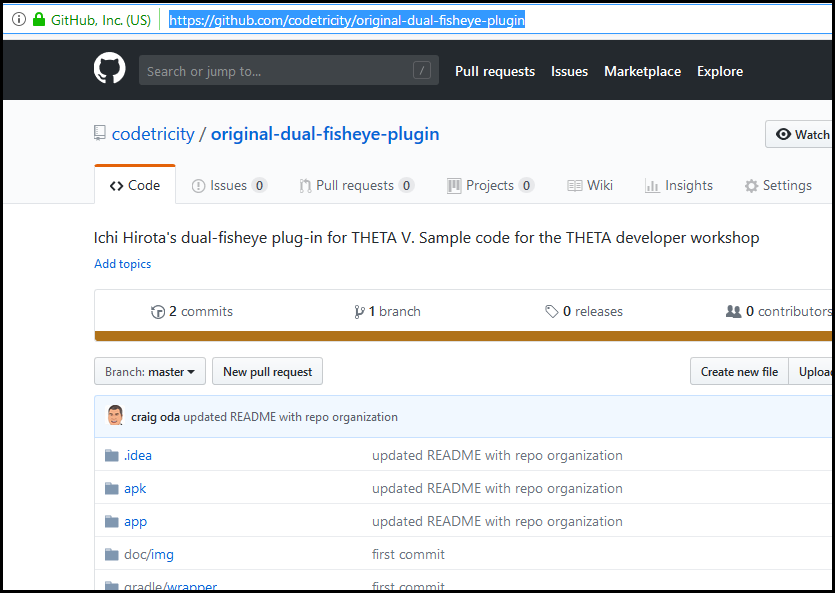
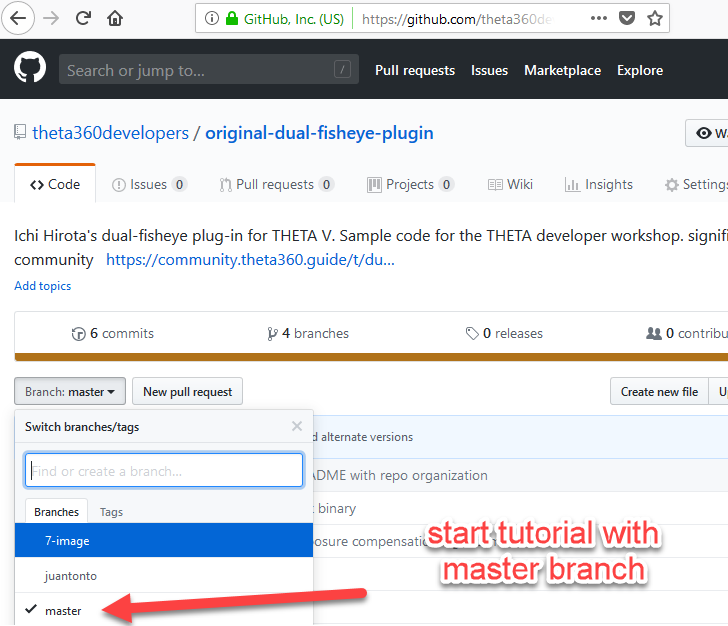
updated tutorial repository links

Changed region(s): [[0.0, 0.0, 1.0, 1.0], [0.6648, 0.2732, 0.8764, 0.3339]]

diff --git a/docs/fisheye.md b/docs/fisheye.md
@@ -42,7 +42,7 @@ to the duration of button presses.
 
 ### Download GitHub Repository
 
-Clone or download the [GitHub repository for this tutorial](https://github.com/codetricity/original-dual-fisheye-plugin).
+Clone or download the [GitHub repository for this tutorial](https://github.com/theta360developers/original-dual-fisheye-plugin).
 
 ![GitHub Repo](example/img/fisheye/github-repo.png)
 
@@ -297,7 +297,7 @@ will give you a feel for how HDRI can help with lighting and perspective.
 ### Steps
 
 If you prefer to read through the modifications and follow along, the modified
-code is in the [7-image branch](https://github.com/codetricity/original-dual-fisheye-plugin/tree/7-image) of the repository.
+code is in the [7-image branch](https://github.com/theta360developers/original-dual-fisheye-plugin/tree/7-image) of the repository.
 
 #### 1. Open MainActivity.java
 
@@ -307,7 +307,7 @@ Under `app/java/com.theta360.pluginapplication`, locate `MainActivity`.
 
 #### 2. Add Variables for NumberOfImages and for ExposureCompensationValue
 
-In [MainActivity.java](https://github.com/codetricity/theta-7-image-dual-fisheye/blob/master/app/src/main/java/com/theta360/pluginapplication/MainActivity.java), add an integer variable called numberOfImages and set the value to 7.
+In [MainActivity.java](https://github.com/theta360developers/original-dual-fisheye-plugin/blob/7-image/app/src/main/java/com/theta360/pluginapplication/MainActivity.java), add an integer variable called numberOfImages and set the value to 7.
 Note the second variable for ExposureCompensationValue that is set the value to -6. Later in the 
 tutorial, we will use this variable to move the exposure compensation from -6 to +6.
 
@@ -336,7 +336,7 @@ In single shot mode, the exposureCompensation will be zero.
 
 If you have any problems following this example, you can also copy and
 paste the relevant sections from the completed file on GitHub, 
-[7-image branch](https://github.com/codetricity/original-dual-fisheye-plugin/tree/7-image).
+[7-image branch](https://github.com/theta360developers/original-dual-fisheye-plugin/tree/7-image).
 
 
 #### 4. Locate nextShutter()
